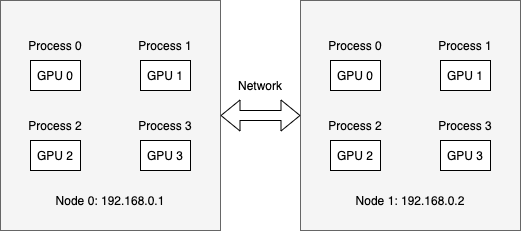
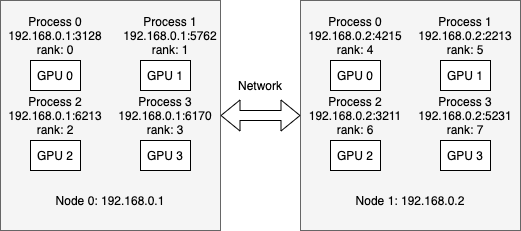
update

diff --git a/docs/source/paddle_fleet_rst/launch.rst b/docs/source/paddle_fleet_rst/launch.rst
@@ -106,7 +106,7 @@ PaddleCloud平台
 物理机或docker环境启动分布式任务
 ============================
 
-我们以下图为例说明如何在物理机环境或者docker环境中启动飞桨分布式任务。我们有两台机器，每台机器包含4张GPU卡。两台机器的IP地址分别为192.168.0.1和192.168.0.2。该IP地址可以为两台物理机的IP地址，也可以为两台机器内部Docker容器的IP地址。
+我们以下面的场景为例说明如何在物理机环境或者docker环境中启动飞桨分布式任务。假设我们有两台机器，每台机器包含4张GPU卡。两台机器的IP地址分别为192.168.0.1和192.168.0.2。该IP地址可以为两台物理机的IP地址，也可以为两台机器内部Docker容器的IP地址。
 
 .. image:: ../collective/img/dp_exam1.png
   :width: 400
@@ -155,3 +155,16 @@ PaddleCloud平台
    python -m paddle.distributed.launch --gpus="0,1" --ips="192.168.0.1,192.168.0.2" train.py
 
 通过\ ``paddle.distributed.launch``\ 组件启动分布式任务时，该组件将为\ ``gpus``\ 参数指定的每张训练卡启动一个训练进程。为了实现进程间通信，该组件同时为每个进程绑定一个端口号，进程的IP地址和端口号成为该进程的网络地址。\ ``paddle.distributed.launch``\ 组件随机查找机器上的可用端口，作为训练进程的端口号。假设，Node 0上4个训练进程的端口号分别为3128、5762、6213和6170，则该机器上4个训练进程的网络地址分别为: \ ``192.168.0.1:3128``\ 、\ ``192.168.0.1:5762``\ 、\ ``192.168.0.1:6213``\ 和\ ``192.168.0.1:6170``\ 。当\ ``paddle.distributed.launch``\ 组件无法获取足够的可用端口时，任务启动失败。
+
+日志信息说明
+===========
+
+首先，我们介绍一些基本概念。我们使用\ ``world_size``\ 或\ ``nranks``\ (number of ranks)表示分布式任务使用的卡的总数，使用\ ``N``\ 表示每台机器上使用的卡数，使用\ ``M``\ 表示分布式任务使用的总机器数；那么，\ :math:`world_size=N*M`\ 。按照机器在\ ``ips``\ 参数中出现的顺序，每台机器被赋予一个节点id：\ ``M_id``\ ，这里\ :math:`0<=M_id<M`\ 。例如，上例中，以192.168.0.1为IP地址的机器在\ ``ips``\ 参数列表的索引为0，故其\ ``M_id``\ 为0。同理，以192.168.0.2为IP地址的机器在\ ``ips``\ 参数列表的索引为1，故其\ ``M_id``\ 为1。同样的，我们根据每台机器上训练卡在\ ``gpus``\ 参数列表出现的顺序为其赋予一个卡id：\ ``N_id``\ ，这里\ :math:`0<=N_id<N`\ 。例如，假设\ ``gpus``\ 参数为"2,3"，那么卡2的\ ``N_id``\ 为0，卡3的\ ``N_id``\ 为1。我们也可以将\ ``N_id``\ 称为\ ``local_rank``\ 。我们为每张训练卡赋予唯一的标识：\ ``rank``\ 。一般来讲，我们可以通过如下的公式计算每张卡的\ ``rank``\ 值。
+
+.. math::
+
+   rank = M_id * N + N_id
+
+这里，需要注意\ ``local_rank``\ 和\ ``rank``\ 的区别：\ ``local_rank``\ 是局部的，在同一机器内部是唯一的，但是不同机器上的卡可以具有相同的\ ``local_rank``\ ；而\ ``rank``\ 是全局唯一的，同一任务中所有的卡具有不同的\ ``rank``\ 值。
+
+通过\ ``paddle.distributed.launch``\ 组件启动分布式任务时，
